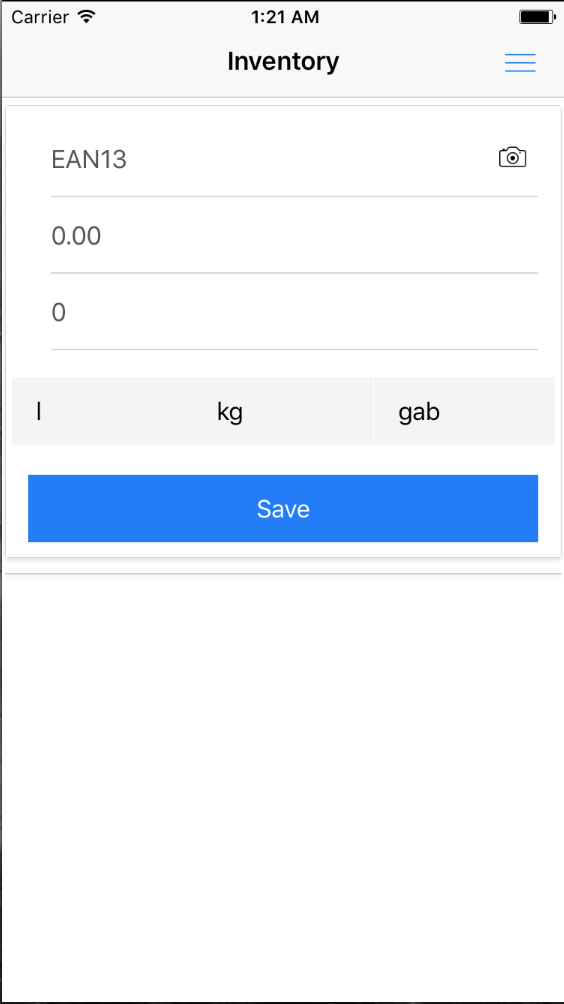
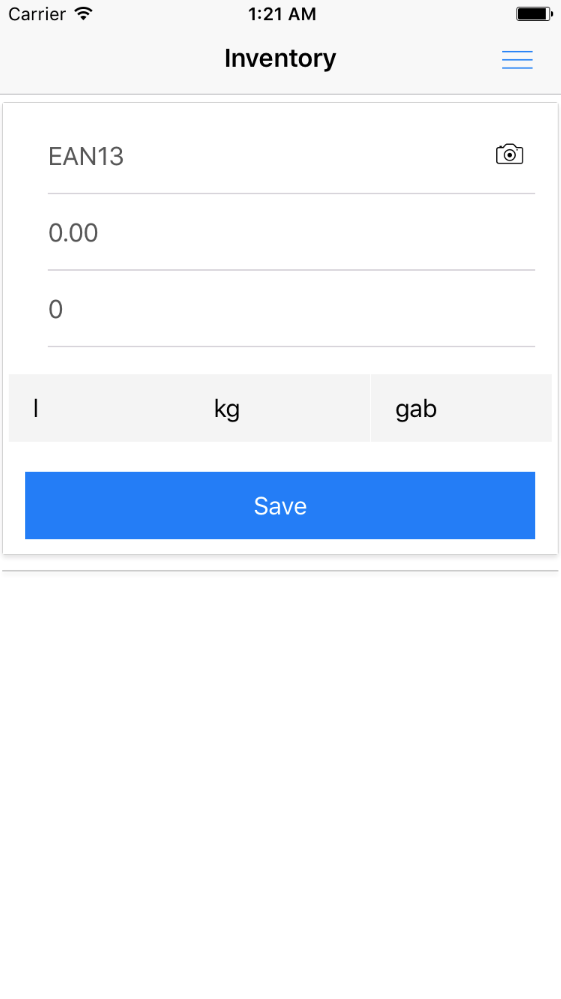
Resize screenshots

diff --git a/README.md b/README.md
@@ -20,7 +20,7 @@ npm run android_release or ios
 2. Enter price and amount
 3. Choose measurement
 
-<img src="docs/empty.png" height="480" /> <img src="docs/full.png" height="480" />
+<img src="docs/empty.png" height="320" /> &nbsp; <img src="docs/full.png" height="320" />
 
 After editing, You can synhronize all of Your data with **inventory.csv** file.
 
